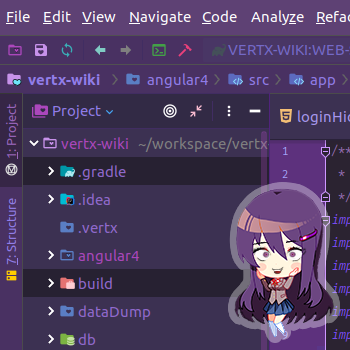
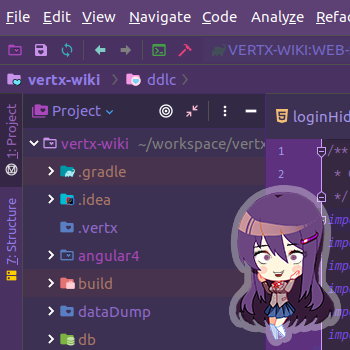
Last minute tweaks with dark yuri

diff --git a/src/main/java/io/acari/DDLC/themes/dark/EdgyTheme.kt b/src/main/java/io/acari/DDLC/themes/dark/EdgyTheme.kt
@@ -47,7 +47,7 @@ class EdgyTheme : DokiDokiTheme("yuri.dark", "Edgy", true, "Yuri") {
 
     override fun getTextColorString(): String = "916ACE"
 
-    override fun getNonProjectFileScopeColor(): String = "272132"
+    override fun getNonProjectFileScopeColor(): String = "47334e"
 
     override fun getTestScope(): String = "0c3118"
 
